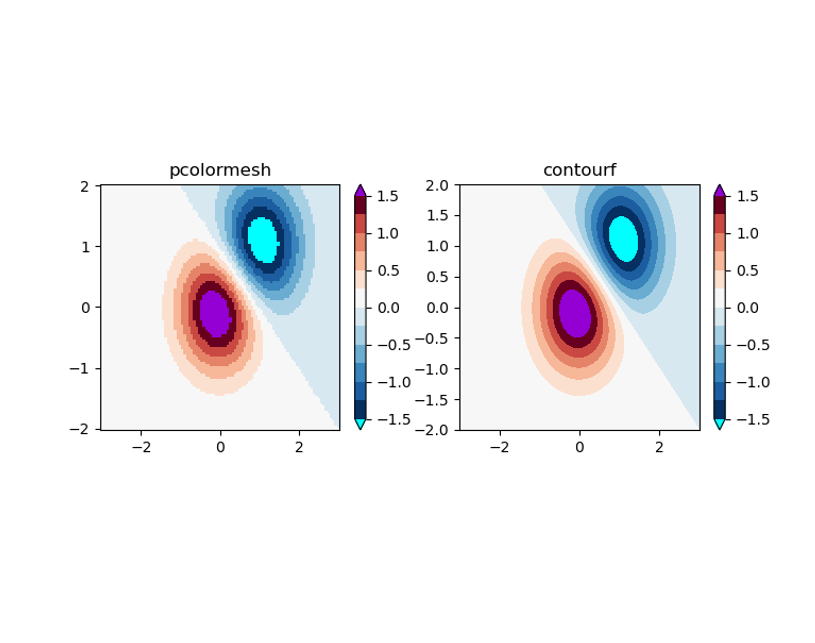
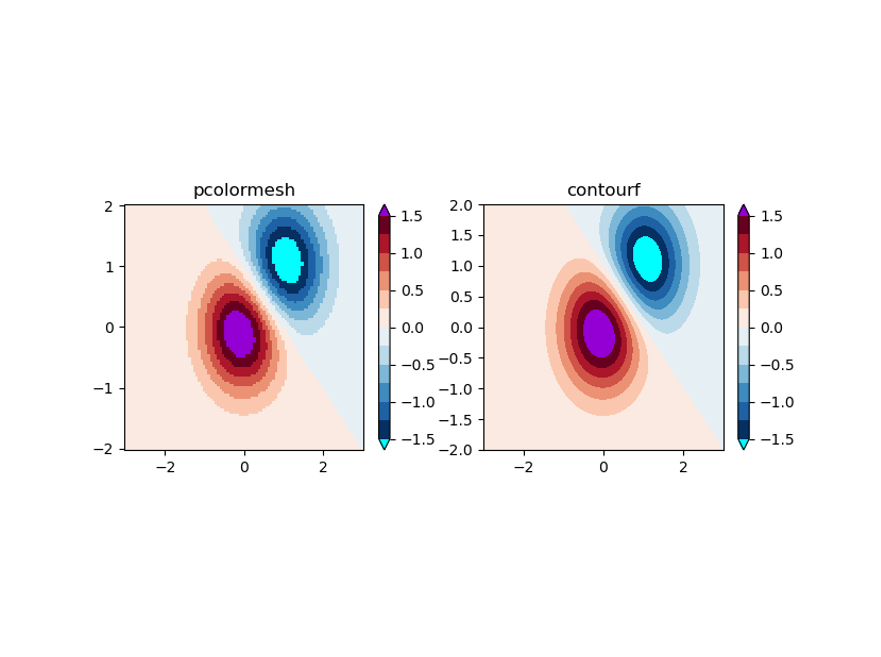
update from gridea: 2020-12-05 09:06:28

Changed region(s): [[0.092, 0.2488, 0.9509, 0.7154]]

diff --git a/post/matplotlib_1_colormap/index.html b/post/matplotlib_1_colormap/index.html
@@ -12,7 +12,7 @@
 <link rel="stylesheet" href="https://cdnjs.cloudflare.com/ajax/libs/animate.css/3.7.0/animate.min.css">
 
 <link rel="stylesheet" href="https://use.fontawesome.com/releases/v5.7.2/css/all.css" integrity="sha384-fnmOCqbTlWIlj8LyTjo7mOUStjsKC4pOpQbqyi7RrhN7udi9RwhKkMHpvLbHG9Sr" crossorigin="anonymous">
-<link rel="shortcut icon" href="https://ZhaJiMan.github.io/favicon.ico?v=1606922611281">
+<link rel="shortcut icon" href="https://ZhaJiMan.github.io/favicon.ico?v=1607130330544">
 <link rel="stylesheet" href="https://cdnjs.cloudflare.com/ajax/libs/KaTeX/0.10.0/katex.min.css">
 <link rel="stylesheet" href="https://ZhaJiMan.github.io/styles/main.css">
 
@@ -36,7 +36,7 @@
   <div class="site-header">
     <div class="left">
       <a href="https://ZhaJiMan.github.io">
-        <img class="avatar" src="https://ZhaJiMan.github.io/images/avatar.png?v=1606922611281" alt="" width="32px" height="32px">
+        <img class="avatar" src="https://ZhaJiMan.github.io/images/avatar.png?v=1607130330544" alt="" width="32px" height="32px">
       </a>
       <a href="https://ZhaJiMan.github.io">
         <h1 class="site-title">炸 鸡 人</h1>
@@ -198,7 +198,7 @@ Z = ((Z1 - Z2) * 2)
 
 # 人为指定的范围.
 bounds = np.arange(-1.5, 1.5+0.25, 0.25)
-nbin = bounds.size
+nbin = bounds.size - 1
 
 # 利用nbin对cmap进行重采样,使cmap只有nbin个颜色.
 cmap = mpl.cm.get_cmap('RdBu_r', nbin)
@@ -222,7 +222,7 @@ axes[1].set_title('contourf')
 
 plt.show()
 </code></pre>
-<figure data-type="image" tabindex="13"><img src="https://ZhaJiMan.github.io/post-images/1606921097915.png" alt="" loading="lazy"></figure>
+<figure data-type="image" tabindex="13"><img src="https://ZhaJiMan.github.io/post-images/1607130293100.png" alt="" loading="lazy"></figure>
 <h2 id="参考链接">参考链接</h2>
 <p><a href="https://matplotlib.org/3.3.3/api/colors_api.html">matplotlib.colors</a><br>
 以及其中的各种子链接。</p>

diff --git a/archives/index.html b/archives/index.html
@@ -10,7 +10,7 @@
 <link rel="stylesheet" href="https://cdnjs.cloudflare.com/ajax/libs/animate.css/3.7.0/animate.min.css">
 
 <link rel="stylesheet" href="https://use.fontawesome.com/releases/v5.7.2/css/all.css" integrity="sha384-fnmOCqbTlWIlj8LyTjo7mOUStjsKC4pOpQbqyi7RrhN7udi9RwhKkMHpvLbHG9Sr" crossorigin="anonymous">
-<link rel="shortcut icon" href="https://ZhaJiMan.github.io/favicon.ico?v=1606922611281">
+<link rel="shortcut icon" href="https://ZhaJiMan.github.io/favicon.ico?v=1607130330544">
 <link rel="stylesheet" href="https://cdnjs.cloudflare.com/ajax/libs/KaTeX/0.10.0/katex.min.css">
 <link rel="stylesheet" href="https://ZhaJiMan.github.io/styles/main.css">
 
@@ -28,7 +28,7 @@
   <div class="site-header">
     <div class="left">
       <a href="https://ZhaJiMan.github.io">
-        <img class="avatar" src="https://ZhaJiMan.github.io/images/avatar.png?v=1606922611281" alt="" width="32px" height="32px">
+        <img class="avatar" src="https://ZhaJiMan.github.io/images/avatar.png?v=1607130330544" alt="" width="32px" height="32px">
       </a>
       <a href="https://ZhaJiMan.github.io">
         <h1 class="site-title">炸 鸡 人</h1>

diff --git a/index.html b/index.html
@@ -11,7 +11,7 @@
 <link rel="stylesheet" href="https://cdnjs.cloudflare.com/ajax/libs/animate.css/3.7.0/animate.min.css">
 
 <link rel="stylesheet" href="https://use.fontawesome.com/releases/v5.7.2/css/all.css" integrity="sha384-fnmOCqbTlWIlj8LyTjo7mOUStjsKC4pOpQbqyi7RrhN7udi9RwhKkMHpvLbHG9Sr" crossorigin="anonymous">
-<link rel="shortcut icon" href="https://ZhaJiMan.github.io/favicon.ico?v=1606922611281">
+<link rel="shortcut icon" href="https://ZhaJiMan.github.io/favicon.ico?v=1607130330544">
 <link rel="stylesheet" href="https://cdnjs.cloudflare.com/ajax/libs/KaTeX/0.10.0/katex.min.css">
 <link rel="stylesheet" href="https://ZhaJiMan.github.io/styles/main.css">
 
@@ -29,7 +29,7 @@
   <div class="site-header">
     <div class="left">
       <a href="https://ZhaJiMan.github.io">
-        <img class="avatar" src="https://ZhaJiMan.github.io/images/avatar.png?v=1606922611281" alt="" width="32px" height="32px">
+        <img class="avatar" src="https://ZhaJiMan.github.io/images/avatar.png?v=1607130330544" alt="" width="32px" height="32px">
       </a>
       <a href="https://ZhaJiMan.github.io">
         <h1 class="site-title">炸 鸡 人</h1>

diff --git a/page/2/index.html b/page/2/index.html
@@ -11,7 +11,7 @@
 <link rel="stylesheet" href="https://cdnjs.cloudflare.com/ajax/libs/animate.css/3.7.0/animate.min.css">
 
 <link rel="stylesheet" href="https://use.fontawesome.com/releases/v5.7.2/css/all.css" integrity="sha384-fnmOCqbTlWIlj8LyTjo7mOUStjsKC4pOpQbqyi7RrhN7udi9RwhKkMHpvLbHG9Sr" crossorigin="anonymous">
-<link rel="shortcut icon" href="https://ZhaJiMan.github.io/favicon.ico?v=1606922611281">
+<link rel="shortcut icon" href="https://ZhaJiMan.github.io/favicon.ico?v=1607130330544">
 <link rel="stylesheet" href="https://cdnjs.cloudflare.com/ajax/libs/KaTeX/0.10.0/katex.min.css">
 <link rel="stylesheet" href="https://ZhaJiMan.github.io/styles/main.css">
 
@@ -29,7 +29,7 @@
   <div class="site-header">
     <div class="left">
       <a href="https://ZhaJiMan.github.io">
-        <img class="avatar" src="https://ZhaJiMan.github.io/images/avatar.png?v=1606922611281" alt="" width="32px" height="32px">
+        <img class="avatar" src="https://ZhaJiMan.github.io/images/avatar.png?v=1607130330544" alt="" width="32px" height="32px">
       </a>
       <a href="https://ZhaJiMan.github.io">
         <h1 class="site-title">炸 鸡 人</h1>

diff --git a/post/FriedChickenMan/index.html b/post/FriedChickenMan/index.html
@@ -12,7 +12,7 @@
 <link rel="stylesheet" href="https://cdnjs.cloudflare.com/ajax/libs/animate.css/3.7.0/animate.min.css">
 
 <link rel="stylesheet" href="https://use.fontawesome.com/releases/v5.7.2/css/all.css" integrity="sha384-fnmOCqbTlWIlj8LyTjo7mOUStjsKC4pOpQbqyi7RrhN7udi9RwhKkMHpvLbHG9Sr" crossorigin="anonymous">
-<link rel="shortcut icon" href="https://ZhaJiMan.github.io/favicon.ico?v=1606922611281">
+<link rel="shortcut icon" href="https://ZhaJiMan.github.io/favicon.ico?v=1607130330544">
 <link rel="stylesheet" href="https://cdnjs.cloudflare.com/ajax/libs/KaTeX/0.10.0/katex.min.css">
 <link rel="stylesheet" href="https://ZhaJiMan.github.io/styles/main.css">
 
@@ -36,7 +36,7 @@
   <div class="site-header">
     <div class="left">
       <a href="https://ZhaJiMan.github.io">
-        <img class="avatar" src="https://ZhaJiMan.github.io/images/avatar.png?v=1606922611281" alt="" width="32px" height="32px">
+        <img class="avatar" src="https://ZhaJiMan.github.io/images/avatar.png?v=1607130330544" alt="" width="32px" height="32px">
       </a>
       <a href="https://ZhaJiMan.github.io">
         <h1 class="site-title">炸 鸡 人</h1>

diff --git a/post/about/index.html b/post/about/index.html
@@ -12,7 +12,7 @@
 <link rel="stylesheet" href="https://cdnjs.cloudflare.com/ajax/libs/animate.css/3.7.0/animate.min.css">
 
 <link rel="stylesheet" href="https://use.fontawesome.com/releases/v5.7.2/css/all.css" integrity="sha384-fnmOCqbTlWIlj8LyTjo7mOUStjsKC4pOpQbqyi7RrhN7udi9RwhKkMHpvLbHG9Sr" crossorigin="anonymous">
-<link rel="shortcut icon" href="https://ZhaJiMan.github.io/favicon.ico?v=1606922611281">
+<link rel="shortcut icon" href="https://ZhaJiMan.github.io/favicon.ico?v=1607130330544">
 <link rel="stylesheet" href="https://cdnjs.cloudflare.com/ajax/libs/KaTeX/0.10.0/katex.min.css">
 <link rel="stylesheet" href="https://ZhaJiMan.github.io/styles/main.css">
 
@@ -36,7 +36,7 @@
   <div class="site-header">
     <div class="left">
       <a href="https://ZhaJiMan.github.io">
-        <img class="avatar" src="https://ZhaJiMan.github.io/images/avatar.png?v=1606922611281" alt="" width="32px" height="32px">
+        <img class="avatar" src="https://ZhaJiMan.github.io/images/avatar.png?v=1607130330544" alt="" width="32px" height="32px">
       </a>
       <a href="https://ZhaJiMan.github.io">
         <h1 class="site-title">炸 鸡 人</h1>

diff --git a/post/calculus_notes/index.html b/post/calculus_notes/index.html
@@ -12,7 +12,7 @@
 <link rel="stylesheet" href="https://cdnjs.cloudflare.com/ajax/libs/animate.css/3.7.0/animate.min.css">
 
 <link rel="stylesheet" href="https://use.fontawesome.com/releases/v5.7.2/css/all.css" integrity="sha384-fnmOCqbTlWIlj8LyTjo7mOUStjsKC4pOpQbqyi7RrhN7udi9RwhKkMHpvLbHG9Sr" crossorigin="anonymous">
-<link rel="shortcut icon" href="https://ZhaJiMan.github.io/favicon.ico?v=1606922611281">
+<link rel="shortcut icon" href="https://ZhaJiMan.github.io/favicon.ico?v=1607130330544">
 <link rel="stylesheet" href="https://cdnjs.cloudflare.com/ajax/libs/KaTeX/0.10.0/katex.min.css">
 <link rel="stylesheet" href="https://ZhaJiMan.github.io/styles/main.css">
 
@@ -36,7 +36,7 @@
   <div class="site-header">
     <div class="left">
       <a href="https://ZhaJiMan.github.io">
-        <img class="avatar" src="https://ZhaJiMan.github.io/images/avatar.png?v=1606922611281" alt="" width="32px" height="32px">
+        <img class="avatar" src="https://ZhaJiMan.github.io/images/avatar.png?v=1607130330544" alt="" width="32px" height="32px">
       </a>
       <a href="https://ZhaJiMan.github.io">
         <h1 class="site-title">炸 鸡 人</h1>

diff --git a/post/cartopy_introduction/index.html b/post/cartopy_introduction/index.html
@@ -12,7 +12,7 @@
 <link rel="stylesheet" href="https://cdnjs.cloudflare.com/ajax/libs/animate.css/3.7.0/animate.min.css">
 
 <link rel="stylesheet" href="https://use.fontawesome.com/releases/v5.7.2/css/all.css" integrity="sha384-fnmOCqbTlWIlj8LyTjo7mOUStjsKC4pOpQbqyi7RrhN7udi9RwhKkMHpvLbHG9Sr" crossorigin="anonymous">
-<link rel="shortcut icon" href="https://ZhaJiMan.github.io/favicon.ico?v=1606922611281">
+<link rel="shortcut icon" href="https://ZhaJiMan.github.io/favicon.ico?v=1607130330544">
 <link rel="stylesheet" href="https://cdnjs.cloudflare.com/ajax/libs/KaTeX/0.10.0/katex.min.css">
 <link rel="stylesheet" href="https://ZhaJiMan.github.io/styles/main.css">
 
@@ -36,7 +36,7 @@
   <div class="site-header">
     <div class="left">
       <a href="https://ZhaJiMan.github.io">
-        <img class="avatar" src="https://ZhaJiMan.github.io/images/avatar.png?v=1606922611281" alt="" width="32px" height="32px">
+        <img class="avatar" src="https://ZhaJiMan.github.io/images/avatar.png?v=1607130330544" alt="" width="32px" height="32px">
       </a>
       <a href="https://ZhaJiMan.github.io">
         <h1 class="site-title">炸 鸡 人</h1>

diff --git a/post/conda/index.html b/post/conda/index.html
@@ -12,7 +12,7 @@
 <link rel="stylesheet" href="https://cdnjs.cloudflare.com/ajax/libs/animate.css/3.7.0/animate.min.css">
 
 <link rel="stylesheet" href="https://use.fontawesome.com/releases/v5.7.2/css/all.css" integrity="sha384-fnmOCqbTlWIlj8LyTjo7mOUStjsKC4pOpQbqyi7RrhN7udi9RwhKkMHpvLbHG9Sr" crossorigin="anonymous">
-<link rel="shortcut icon" href="https://ZhaJiMan.github.io/favicon.ico?v=1606922611281">
+<link rel="shortcut icon" href="https://ZhaJiMan.github.io/favicon.ico?v=1607130330544">
 <link rel="stylesheet" href="https://cdnjs.cloudflare.com/ajax/libs/KaTeX/0.10.0/katex.min.css">
 <link rel="stylesheet" href="https://ZhaJiMan.github.io/styles/main.css">
 
@@ -36,7 +36,7 @@
   <div class="site-header">
     <div class="left">
       <a href="https://ZhaJiMan.github.io">
-        <img class="avatar" src="https://ZhaJiMan.github.io/images/avatar.png?v=1606922611281" alt="" width="32px" height="32px">
+        <img class="avatar" src="https://ZhaJiMan.github.io/images/avatar.png?v=1607130330544" alt="" width="32px" height="32px">
       </a>
       <a href="https://ZhaJiMan.github.io">
         <h1 class="site-title">炸 鸡 人</h1>

diff --git a/post/conda_yml/index.html b/post/conda_yml/index.html
@@ -12,7 +12,7 @@
 <link rel="stylesheet" href="https://cdnjs.cloudflare.com/ajax/libs/animate.css/3.7.0/animate.min.css">
 
 <link rel="stylesheet" href="https://use.fontawesome.com/releases/v5.7.2/css/all.css" integrity="sha384-fnmOCqbTlWIlj8LyTjo7mOUStjsKC4pOpQbqyi7RrhN7udi9RwhKkMHpvLbHG9Sr" crossorigin="anonymous">
-<link rel="shortcut icon" href="https://ZhaJiMan.github.io/favicon.ico?v=1606922611281">
+<link rel="shortcut icon" href="https://ZhaJiMan.github.io/favicon.ico?v=1607130330544">
 <link rel="stylesheet" href="https://cdnjs.cloudflare.com/ajax/libs/KaTeX/0.10.0/katex.min.css">
 <link rel="stylesheet" href="https://ZhaJiMan.github.io/styles/main.css">
 
@@ -36,7 +36,7 @@
   <div class="site-header">
     <div class="left">
       <a href="https://ZhaJiMan.github.io">
-        <img class="avatar" src="https://ZhaJiMan.github.io/images/avatar.png?v=1606922611281" alt="" width="32px" height="32px">
+        <img class="avatar" src="https://ZhaJiMan.github.io/images/avatar.png?v=1607130330544" alt="" width="32px" height="32px">
       </a>
       <a href="https://ZhaJiMan.github.io">
         <h1 class="site-title">炸 鸡 人</h1>

diff --git a/post/ffmpeg-images/index.html b/post/ffmpeg-images/index.html
@@ -12,7 +12,7 @@
 <link rel="stylesheet" href="https://cdnjs.cloudflare.com/ajax/libs/animate.css/3.7.0/animate.min.css">
 
 <link rel="stylesheet" href="https://use.fontawesome.com/releases/v5.7.2/css/all.css" integrity="sha384-fnmOCqbTlWIlj8LyTjo7mOUStjsKC4pOpQbqyi7RrhN7udi9RwhKkMHpvLbHG9Sr" crossorigin="anonymous">
-<link rel="shortcut icon" href="https://ZhaJiMan.github.io/favicon.ico?v=1606922611281">
+<link rel="shortcut icon" href="https://ZhaJiMan.github.io/favicon.ico?v=1607130330544">
 <link rel="stylesheet" href="https://cdnjs.cloudflare.com/ajax/libs/KaTeX/0.10.0/katex.min.css">
 <link rel="stylesheet" href="https://ZhaJiMan.github.io/styles/main.css">
 
@@ -36,7 +36,7 @@
   <div class="site-header">
     <div class="left">
       <a href="https://ZhaJiMan.github.io">
-        <img class="avatar" src="https://ZhaJiMan.github.io/images/avatar.png?v=1606922611281" alt="" width="32px" height="32px">
+        <img class="avatar" src="https://ZhaJiMan.github.io/images/avatar.png?v=1607130330544" alt="" width="32px" height="32px">
       </a>
       <a href="https://ZhaJiMan.github.io">
         <h1 class="site-title">炸 鸡 人</h1>

diff --git a/post/great_circle_distance/index.html b/post/great_circle_distance/index.html
@@ -12,7 +12,7 @@
 <link rel="stylesheet" href="https://cdnjs.cloudflare.com/ajax/libs/animate.css/3.7.0/animate.min.css">
 
 <link rel="stylesheet" href="https://use.fontawesome.com/releases/v5.7.2/css/all.css" integrity="sha384-fnmOCqbTlWIlj8LyTjo7mOUStjsKC4pOpQbqyi7RrhN7udi9RwhKkMHpvLbHG9Sr" crossorigin="anonymous">
-<link rel="shortcut icon" href="https://ZhaJiMan.github.io/favicon.ico?v=1606922611281">
+<link rel="shortcut icon" href="https://ZhaJiMan.github.io/favicon.ico?v=1607130330544">
 <link rel="stylesheet" href="https://cdnjs.cloudflare.com/ajax/libs/KaTeX/0.10.0/katex.min.css">
 <link rel="stylesheet" href="https://ZhaJiMan.github.io/styles/main.css">
 
@@ -36,7 +36,7 @@
   <div class="site-header">
     <div class="left">
       <a href="https://ZhaJiMan.github.io">
-        <img class="avatar" src="https://ZhaJiMan.github.io/images/avatar.png?v=1606922611281" alt="" width="32px" height="32px">
+        <img class="avatar" src="https://ZhaJiMan.github.io/images/avatar.png?v=1607130330544" alt="" width="32px" height="32px">
       </a>
       <a href="https://ZhaJiMan.github.io">
         <h1 class="site-title">炸 鸡 人</h1>
